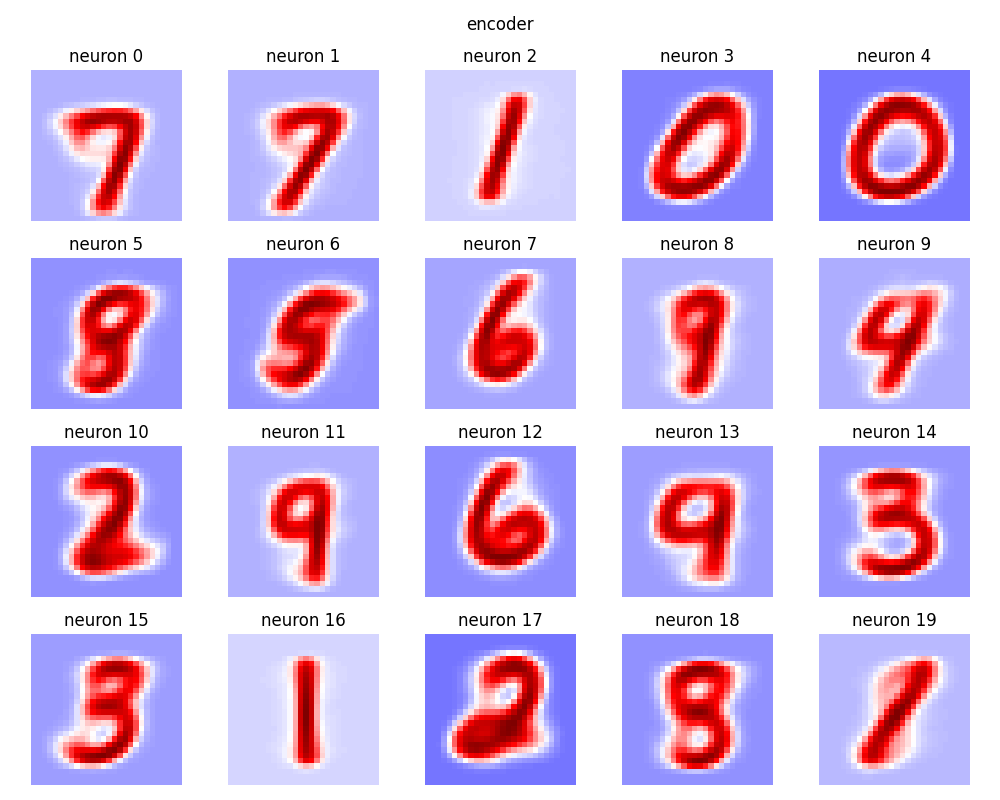
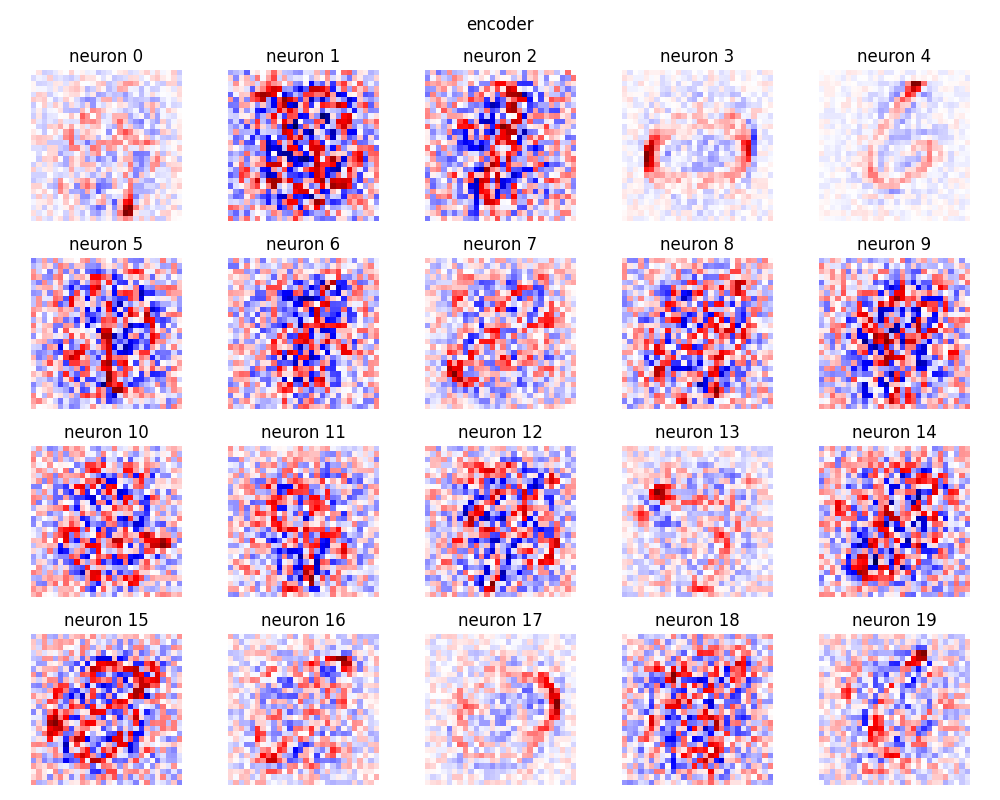
whitened trials

diff --git a/Spiking_Neural_Networks/local/MNIST_whitened_local_bias.py b/Spiking_Neural_Networks/local/MNIST_whitened_local_bias.py
@@ -16,7 +16,7 @@ EIG_FLOOR = 1e-12
 
 batch_size  = 100
 
-epochs      = 50
+epochs      = 100
 
 # ---- spiking ----
 membrane_decay = 0.9
@@ -34,6 +34,38 @@ GATING = True            # if True, only neurons that fired learn on a given inp
 
 spike_grad = surrogate.atan(alpha=2.0)
 
+def fit_zca(X, eps):
+    mean = X.mean(dim=0, keepdim=True)
+    Xc = X - mean
+    cov = (Xc.T @ Xc) / (Xc.shape[0] - 1)
+    evals, evecs = torch.linalg.eigh(cov)                
+    evals = torch.clamp(evals, min=0.0)
+    W = evecs @ torch.diag(1.0 / torch.sqrt(evals + eps)) @ evecs.T
+    return mean, W
+
+@torch.no_grad()
+def compute_zca(dataset, eps):
+    # one big (N, 784) matrix; MNIST is ~188 MB in float32, fine on CPU
+    X = torch.stack([img.view(-1) for img, _ in dataset])   # (60000, 784)
+    return fit_zca(X, eps)                                   # mean:(1,784)  W:(784,784)
+
+base = datasets.MNIST('./data', train=True, download=True, transform=transforms.ToTensor())
+mean, W = compute_zca(base, eps=1e-2)
+
+class ZCAWhiten:
+    def __init__(self, mean, W):
+        self.mean = mean          # (1, 784), CPU
+        self.W = W                # (784, 784), CPU
+    def __call__(self, x):        # x: (1, 28, 28)
+        flat = x.reshape(1, -1)             # (1, 784)
+        white = (flat - self.mean) @ self.W # (1, 784)
+        return white.reshape(x.shape)       # (1, 28, 28)
+
+tfm = transforms.ToTensor()
+train_loader = DataLoader(datasets.MNIST('./data', train=True,  download=True, transform=tfm),
+                          batch_size=batch_size, shuffle=True)
+test_loader  = DataLoader(datasets.MNIST('./data', train=False, download=True, transform=tfm),
+                          batch_size=batch_size, shuffle=False)
 
 class NeuronDecoder(nn.Module):
     def __init__(self, n_neurons=20, in_dim=784):
@@ -139,10 +171,6 @@ def train(network, loader, opti, epoch):
     for i, (img, _) in enumerate(loader):
         opti.zero_grad()
         img = img.to(device)
-        img_flat = img.view(img.size(0), -1)
-        mean = img_flat.mean(1).view(-1, 1, 1, 1)
-        std = img_flat.std(1).view(-1, 1, 1, 1)
-        img = (img - mean) / std
         spk_rec, x, x_recon, activity = network(img)
         loss = recon_loss(x_recon, x, activity)
         loss.backward()
@@ -163,7 +191,6 @@ def test_encoder(network, loader):
     spikes = []
     for img, _ in loader:
         img = img.to(device)
-        img = _normalize(img)          # match training / readout
         spk_rec, x, x_recon, activity = network(img)
         spikes.append(torch.cat(spk_rec, dim=0))
     spikes = torch.cat(spikes, dim=0)
@@ -194,7 +221,7 @@ def _normalize(img):
 @torch.no_grad()
 def extract_features(network, img):
     """Frozen forward pass -> per-neuron spike RATE feature (B, n_hidden)."""
-    _, _, _, activity = network(_normalize(img))   # activity = spikes summed over T
+    _, _, _, activity = network(img)   # activity = spikes summed over T
     return activity / num_steps                     # rate in ~[0,1] per neuron
 
 def train_readout(network, readout, loader, opti):
@@ -250,42 +277,6 @@ print('PyTorch:', torch.__version__)
 device = torch.device('cuda' if torch.cuda.is_available() else 'cpu')
 print('device:', device)
 
-class ZCAWhitening:
-    def __init__(self, epsilon=0.1):
-        self.epsilon = epsilon
-    def fit(self, X):                     # X: (N, 784)
-        X = X.double()
-        self.mean_ = X.mean(0, keepdim=True)
-        Xc = X - self.mean_
-        cov = (Xc.T @ Xc) / Xc.shape[0]
-        eigvals, eigvecs = torch.linalg.eigh(cov)
-        inv_sqrt = (eigvals.clamp_min(0.0) + self.epsilon).rsqrt()
-        self.W_ = (eigvecs * inv_sqrt) @ eigvecs.T
-        return self
-    def transform(self, X):
-        return ((X.double() - self.mean_) @ self.W_).float()
-
-def per_image_normalize(X, eps=1e-8):     # zero-mean, unit-var per image; LAST step
-    X = X - X.mean(1, keepdim=True)
-    return X / (X.std(1, keepdim=True) + eps)
-
-# --- Pull raw tensors directly. `.data` is uint8 (N,28,28) and bypasses ToTensor ---
-train_ds = datasets.MNIST('./data', train=True,  download=True)
-test_ds  = datasets.MNIST('./data', train=False, download=True)
-
-X_train = train_ds.data.float().div(255.).view(-1, 784)   # scale to [0,1] first
-X_test  = test_ds.data.float().div(255.).view(-1, 784)
-y_train, y_test = train_ds.targets, test_ds.targets
-
-# --- Fit ZCA on TRAIN only, apply to both, then contrast-normalize last ---
-zca = ZCAWhitening(epsilon=0.1)                # tune by eye
-X_train = per_image_normalize(zca.fit_transform(X_train) if hasattr(zca,'fit_transform')
-                              else zca.fit(X_train).transform(X_train))
-X_test  = per_image_normalize(zca.transform(X_test))
-
-train_loader = DataLoader(TensorDataset(X_train, y_train), batch_size=batch_size, shuffle=True)
-test_loader  = DataLoader(TensorDataset(X_test,  y_test),  batch_size=batch_size, shuffle=False)
-
 torch.manual_seed(0)
 
 net = SAE().to(device)
@@ -296,9 +287,6 @@ r_effs = []
 avg_rates =[]
 avg_threshs = []
 inhibition_props = []
-for i in range(epochs+10):
-    train(net, train_loader, optimizer, i)
-
 for e in range(epochs+1):
     if (e)%10 == 0:
         test_epochs.append(e)
@@ -329,7 +317,7 @@ for e in range(epochs+1):
         ax.set_xlabel("source neuron j")
         ax.set_ylabel("target neuron i")
         plt.tight_layout()
-        plt.savefig(f"Spiking_Neural_Networks/Images/local/bias/inhib_e{e+60}.png")
+        plt.savefig(f"Spiking_Neural_Networks/Images/local/bias/inhib_e{e}.png")
         plt.close(fig)
 
 
@@ -346,9 +334,6 @@ for e in range(epochs+1):
                 f'train_acc {tr_acc:.4f}')
         te_acc = eval_readout(net, readout, test_loader)
         accuracy.append(te_acc)
-
-    if (e==50):
-        break
 
     train(net, train_loader, optimizer, e)
 

diff --git a/Spiking_Neural_Networks/local/MNIST_whitened_local_weight.py b/Spiking_Neural_Networks/local/MNIST_whitened_local_weight.py
@@ -17,7 +17,7 @@ from snntorch import surrogate
 batch_size  = 100
 
 epochs      = 50
-N = 20
+N = 100
 
 membrane_decay = 0.9
 num_steps   = 50          # timesteps per image
@@ -137,8 +137,7 @@ def test_encoder(network, loader):
     losses = []
     spikes = []
     for img, _ in loader:
-        img = img.to(device)
-        img = _normalize(img)          # match training / readout
+        img = img.to(device)   # match training / readout
         spk_rec, x, activity = network(img)
         spikes.append(torch.cat(spk_rec, dim=0))
     spikes = torch.cat(spikes, dim=0)
@@ -152,7 +151,7 @@ def test_encoder(network, loader):
     return r_eff.item(), avg_rate.item(), avg_thresh.item(), inhibition_prop.item()
 
 class LinearReadout(nn.Module):
-    def __init__(self, n_neurons=20, n_classes=10):
+    def __init__(self, n_neurons=N, n_classes=10):
         super().__init__()
         self.fc = nn.Linear(n_neurons, n_classes)
 
@@ -169,7 +168,7 @@ def _normalize(img):
 @torch.no_grad()
 def extract_features(network, img):
     """Frozen forward pass -> per-neuron spike RATE feature (B, n_hidden)."""
-    _, _, activity = network(_normalize(img))   # activity = spikes summed over T
+    _, _, activity = network(img)   # activity = spikes summed over T
     return activity / num_steps                     # rate in ~[0,1] per neuron
 
 def train_readout(network, readout, loader, opti):
@@ -197,8 +196,7 @@ def eval_readout(network, readout, loader):
         total   += img.size(0)
     return correct / total
 
-def spk_effective_rank(spk_rec, n_neurons=20, eig_floor=1e-12, jitter=1e-6):
-    N = n_neurons
+def spk_effective_rank(spk_rec, eig_floor=1e-12, jitter=1e-6):
     spikes = spk_rec.permute(1, 0, 2).reshape(N, -1)      # (N, batch*num_steps)
 
     cov = torch.cov(spikes)                               # (N, N)
@@ -225,7 +223,7 @@ def train(network, loader, epoch):
     network.train()
     for i, (img, _) in enumerate(loader):
         img = img.to(device)
-        spk_rec, x, activity = network(_normalize(img))
+        spk_rec, x, activity = network(img)
         loss = network.learn(activity, x)
         network.encoder.update_inhibition(activity, alpha)
         network.encoder.update_threshold(spk_rec, gamma)
@@ -238,12 +236,38 @@ print('PyTorch:', torch.__version__)
 device = torch.device('cuda' if torch.cuda.is_available() else 'cpu')
 print('device:', device)
 
-tfm = transforms.ToTensor()
+def fit_zca(X, eps):
+    mean = X.mean(dim=0, keepdim=True)
+    Xc = X - mean
+    cov = (Xc.T @ Xc) / (Xc.shape[0] - 1)
+    evals, evecs = torch.linalg.eigh(cov)                
+    evals = torch.clamp(evals, min=0.0)
+    W = evecs @ torch.diag(1.0 / torch.sqrt(evals + eps)) @ evecs.T
+    return mean, W
+
+@torch.no_grad()
+def compute_zca(dataset, eps):
+    # one big (N, 784) matrix; MNIST is ~188 MB in float32, fine on CPU
+    X = torch.stack([img.view(-1) for img, _ in dataset])   # (60000, 784)
+    return fit_zca(X, eps)                                   # mean:(1,784)  W:(784,784)
+
+base = datasets.MNIST('./data', train=True, download=True, transform=transforms.ToTensor())
+mean, W = compute_zca(base, eps=1e-2)
+
+class ZCAWhiten:
+    def __init__(self, mean, W):
+        self.mean = mean          # (1, 784), CPU
+        self.W = W                # (784, 784), CPU
+    def __call__(self, x):        # x: (1, 28, 28)
+        flat = x.reshape(1, -1)             # (1, 784)
+        white = (flat - self.mean) @ self.W # (1, 784)
+        return white.reshape(x.shape)       # (1, 28, 28)
+
+tfm = transforms.Compose([transforms.ToTensor(), ZCAWhiten(mean, W)])
 train_loader = DataLoader(datasets.MNIST('./data', train=True,  download=True, transform=tfm),
                           batch_size=batch_size, shuffle=True)
 test_loader  = DataLoader(datasets.MNIST('./data', train=False, download=True, transform=tfm),
                           batch_size=batch_size, shuffle=False)
-
 
 torch.manual_seed(0)
 
@@ -256,7 +280,7 @@ avg_rates =[]
 avg_threshs = []
 inhibition_props = []
 for e in range(epochs+1):
-    if (e)%5 == 0:
+    if (e)%10 == 0:
         test_epochs.append(e)
         r_eff, avg_rate, avg_thresh, inhibition_prop = test_encoder(net, test_loader)
         r_effs.append(r_eff)
@@ -287,7 +311,7 @@ for e in range(epochs+1):
         plt.close(fig)
 
 
-        readout        = LinearReadout(n_neurons=20, n_classes=10).to(device)
+        readout        = LinearReadout(n_neurons=N, n_classes=10).to(device)
         readout_opt    = torch.optim.SGD(readout.parameters(), lr=0.1)
 
         te_acc = 0
